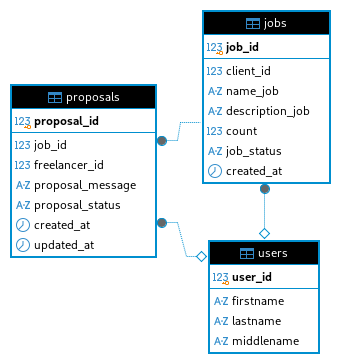
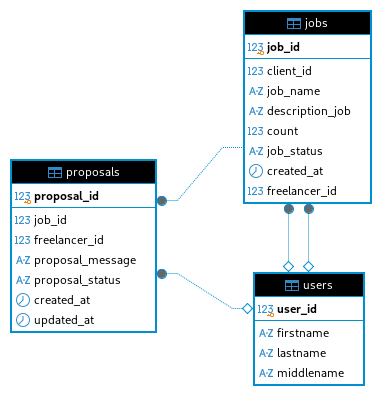
docs: update database.md

diff --git a/backend/database.md b/backend/database.md
@@ -29,7 +29,7 @@
 
 ## SQL-скрипт создания таблицы
 
-```
+```sql
 -- Создание типа данных proposal_status
 CREATE TYPE proposal_status AS ENUM (
     'pending',
@@ -44,11 +44,16 @@ CREATE TABLE proposals (
     job_id INT NOT NULL REFERENCES jobs(job_id),
     freelancer_id INT REFERENCES users(user_id),
     proposal_message VARCHAR(500),
-    proposal_status proposal_status NOT NULL DEFAULT 'pending',
+    proposal_status NOT NULL DEFAULT 'pending',
     created_at TIMESTAMPTZ NOT NULL DEFAULT CURRENT_TIMESTAMP,
     updated_at TIMESTAMPTZ NOT NULL DEFAULT CURRENT_TIMESTAMP,
     CONSTRAINT uq_proposals_job_freelancer UNIQUE (job_id, freelancer_id)
 );
+
+-- Создание уникального индекса для невозможности выбора более одного исполнителя заказа
+CREATE UNIQUE INDEX uq_idx_single_accepted_status
+ON proposals (job_id)
+WHERE proposal_status = 'accepted';
 ```
 
 ## ER-Diagram
